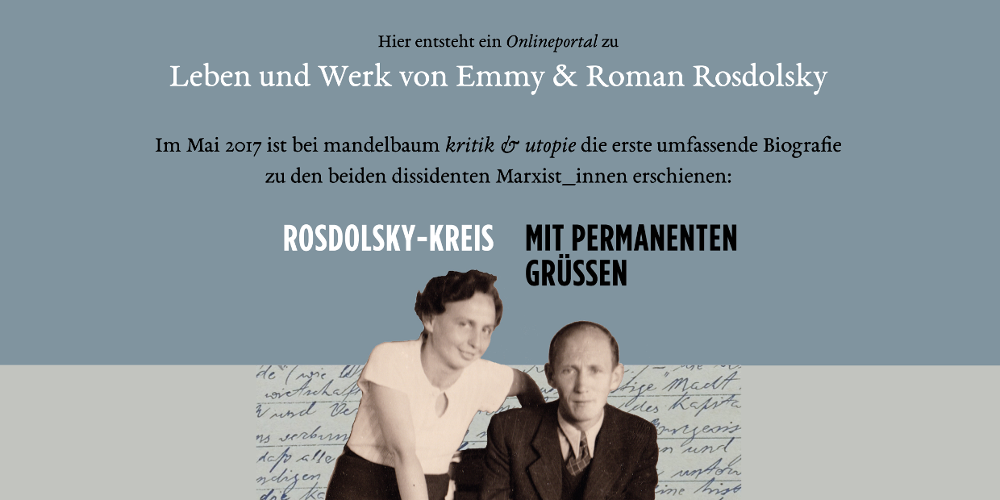
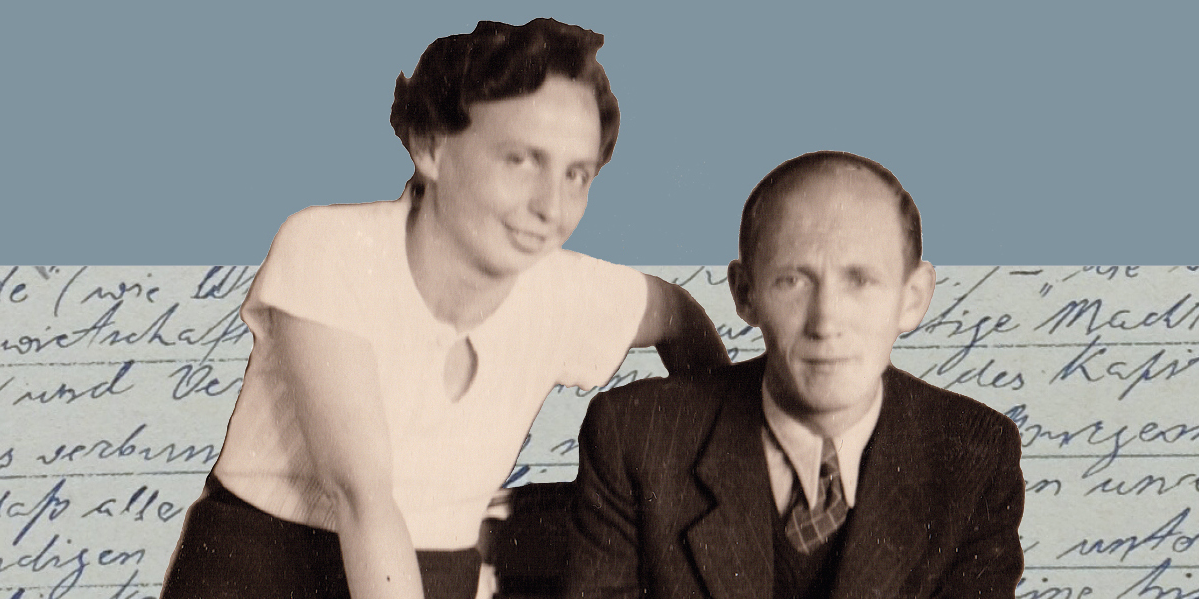
Create presentation using reveal.js

diff --git a/_layouts/slide.html b/_layouts/slide.html
@@ -1,0 +1,92 @@
+<!doctype html>
+<html>
+  <head>
+    <meta charset="utf-8">
+
+    <title>
+      {% if page.title %}
+        {{ page.title }} | {{ site.title }}
+      {% else %}
+        {{ site.title }}
+      {% endif %}
+    </title>
+
+    <meta name="author" content="{{ site.author }}" />
+
+    <!-- Description -->
+    {% if page.description %}
+      <meta name="description" content="{{ page.description }}" />
+    {% else %}
+      <meta name="description" content="{{ site.description }}">
+    {% endif %}
+
+    <meta name="apple-mobile-web-app-capable" content="yes" />
+    <meta name="apple-mobile-web-app-status-bar-style" content="black-translucent" />
+
+    <meta name="viewport" content="width=device-width, initial-scale=1.0, maximum-scale=1.0, user-scalable=no, minimal-ui">
+
+    <link rel="stylesheet" href="{{ "/reveal.js/css/reveal.css" | prepend: site.baseurl }}"/>
+    {%if page.theme %}
+      <link rel="stylesheet" href="{{ "/reveal.js/css/theme/" | prepend: site.baseurl | append: page.theme | append: '.css' }}" id="theme"/>
+    {% else %}
+      <link rel="stylesheet" href="{{ "/reveal.js/css/theme/black.css" | prepend: site.baseurl }}" id="theme"/>
+    {% endif %}
+
+    <!-- Code syntax highlighting -->
+    <link rel="stylesheet" href="{{ "/reveal.js/lib/css/zenburn.css" | prepend: site.baseurl }}"/>
+
+    <!-- Printing and PDF exports -->
+    <script>
+      var link = document.createElement( 'link' );
+      link.rel = 'stylesheet';
+      link.type = 'text/css';
+      link.href = window.location.search.match( /print-pdf/gi ) ? '{{ "/reveal.js/css/print/pdf.css" | prepend: site.baseurl }}' : '{{ "/reveal.js/css/print/paper.css" | prepend: site.baseurl }}';
+      document.getElementsByTagName( 'head' )[0].appendChild( link );
+    </script>
+
+    <link rel="apple-touch-icon" href="{{ "/apple-touch-icon.png" | prepend: site.baseurl }}" />
+
+    <link rel="canonical" href="{{ page.url | replace:'index.html','' | prepend: site.baseurl | prepend: site.url }}">
+
+    <!--[if lt IE 9]>
+    <script src="lib/js/html5shiv.js"></script>
+    <![endif]-->
+  </head>
+
+  <body>
+  
+    <div class="reveal">
+      <div class="slides">
+        {{ content }}
+      </div>
+    </div>
+
+    <script src="{{ "/reveal.js/lib/js/head.min.js" | prepend: site.baseurl }}"></script>
+    <script src="{{ "/reveal.js/js/reveal.js" | prepend: site.baseurl }}"></script>
+    <script>
+      // Full list of configuration options available at:
+      // https://github.com/hakimel/reveal.js#configuration
+      Reveal.initialize({
+        controls: true,
+        progress: true,
+        history: true,
+        center: true,
+        {%if page.transition %}
+          transition: '{{page.transition}}',
+        {% else %}
+          transition: 'slide', // none/fade/slide/convex/concave/zoom
+        {% endif %}
+        // Optional reveal.js plugins
+        dependencies: [
+          { src: '{{ "/reveal.js/lib/js/classList.js" | prepend: site.baseurl }}', condition: function() { return !document.body.classList; } },
+          { src: '{{ "/reveal.js/plugin/markdown/marked.js" | prepend: site.baseurl }}', condition: function() { return !!document.querySelector( '[data-markdown]' ); } },
+          { src: '{{ "/reveal.js/plugin/markdown/markdown.js" | prepend: site.baseurl }}', condition: function() { return !!document.querySelector( '[data-markdown]' ); } },
+          { src: '{{ "/reveal.js/plugin/highlight/highlight.js" | prepend: site.baseurl }}', async: true, condition: function() { return !!document.querySelector( 'pre code' ); }, callback: function() { hljs.initHighlightingOnLoad(); } },
+          { src: '{{ "/reveal.js/plugin/zoom-js/zoom.js" | prepend: site.baseurl }}', async: true },
+          { src: '{{ "/reveal.js/plugin/notes/notes.js" | prepend: site.baseurl }}', async: true }
+        ]
+      });
+    </script>
+    
+  </body>
+</html>

diff --git a/index.md b/index.md
@@ -1,6 +1,95 @@
 ---
-# You don't need to edit this file, it's empty on purpose.
-# Edit theme's home layout instead if you wanna make some changes
-# See: https://jekyllrb.com/docs/themes/#overriding-theme-defaults
-layout: home
+layout: slide
+theme: league
+transition: slide
+lang: en
 ---
+
+<section data-markdown>
+Dedicated to
+## Emmy Rosdolsky (1911-2001)
+## Roman Rosdolsky (1898-1967)
+
+The following pages give you an idea of what to expect.
+
+<small>[< deutschsprachige version > ](/de/)</small>
+</section>
+
+
+<section data-markdown>
+Viennese Unionist Emmy & Lvov Historian Roman have been active in the socialist movement since their youth.
+![Cover](../images/cover.png)
+</section>
+
+
+<section data-markdown>
+In 2015 our research group inspected the Roman Rosdolsky Papers at the IISH in Amsterdam.
+![page #01](../images/slide_01.png)
+</section>
+
+
+<section data-markdown>
+Reading room with pleasant view! Digitizing letters and unpublished articles.
+![page #02](../images/slide_02.png)
+</section>
+
+
+<section data-markdown>
+In 2008 we started to establish our reading & study circle in Vienna.
+![page #03](../images/slide_03.png)
+</section>
+
+
+<section data-markdown>
+In May 2017 we published the first extensive biography: [**Mit permanenten Grüßen**](http://www.mandelbaum.at/buch.php?id=751)
+![page #04](../images/slide_04.png)
+</section>
+
+
+<section data-markdown>
+...with exciting excerpts from the extensive debates with important Marxists like...
+![page #05](../images/slide_05.png)
+</section>
+
+
+<section data-markdown>
+...the politicians Julius Braunthal, Christian Broda and Benedikt Kautsky,...
+![page #06](../images/slide_06.png)
+</section>
+
+
+<section data-markdown>
+...the economists Raya Dunayevskaya, Paul Mattick, Ernest Mandel and Natalia Moskovskaya,...
+![page #07](../images/slide_07.png)
+</section>
+
+
+<section data-markdown>
+...the historian Isaac Deutscher, the psychoanalyst Ernst Federn,...
+![page #08](../images/slide_08.png)
+</section>
+
+
+<section data-markdown>
+...and the philosophers Karl Korsch and Otto Morf. A selection of the correspondence will be published here.
+![page #09](../images/slide_09.png)
+</section>
+
+
+<section data-markdown>
+Moreover audio interviews have been transcribed and digitized. Stay tuned!
+![page #10](../images/slide_10.png)
+</section>
+
+
+<section data-markdown>
+## Thanks for watching! Any contributions welcome!
+With permanent greetings
+
+Steffi and Pablo
+
+Vienna, 2017/July/19
+
+(on the occasion of Roman Rosdolsky's 119th birthday)
+### Feel free to get in touch with us via mail: [contact@rosdolsky.org](mailto:contact@rosdolsky.org)
+</section>

diff --git a/index_de.md b/index_de.md
@@ -1,0 +1,97 @@
+---
+layout: slide
+theme: league
+transition: slide
+lang: de
+permalink: /de/
+---
+
+<section data-markdown>
+Gewidmet
+## Emmy Rosdolsky (1911-2001)
+## Roman Rosdolsky (1898-1967)
+
+Die folgenden Seiten sind ein kleiner Vorgeschmack auf das, was kommt.
+
+<small>[ < english version > ](/)</small>
+</section>
+
+
+<section data-markdown>
+Die Wiener Gewerkschafterin Emmy und der Lemberger Historiker Roman waren seit ihrer Jugend in der sozialistischen Bewegung aktiv.
+![Cover](../images/cover.png)
+</section>
+
+
+<section data-markdown>
+2015 sichtete unsere Forschungsgruppe den Nachlass von Roman Rosdolsky am IISG in Amsterdam.
+![page #01](../images/slide_01.png)
+</section>
+
+
+<section data-markdown>
+Lesesaal mit schönem Ausblick! Briefe und unveröffentlichte Artikel werden digitalisiert.
+![page #02](../images/slide_02.png)
+</section>
+
+
+<section data-markdown>
+2008 begannen wir in Wien mit dem Aufbau unseres Lese- und Studienkreises.
+![page #03](../images/slide_03.png)
+</section>
+
+
+<section data-markdown>
+Im Mai 2017 erschien schließlich die erste umfangreiche Biografie: [**Mit permanenten Grüßen**](http://www.mandelbaum.at/buch.php?id=751)
+![page #04](../images/slide_04.png)
+</section>
+
+
+<section data-markdown>
+... mit spannenden Auszügen aus den umfangreichen Debatten mit bedeutenden Marxist_innen wie ...
+![page #05](../images/slide_05.png)
+</section>
+
+
+<section data-markdown>
+... den Politikern Julius Braunthal, Christian Broda und Benedikt Kautsky, ...
+![page #06](../images/slide_06.png)
+</section>
+
+
+<section data-markdown>
+... den Ökonom_innen Raya Dunayevskaya, Paul Mattick, Ernest Mandel und Natalie Moskovska, ...
+![page #07](../images/slide_07.png)
+</section>
+
+
+<section data-markdown>
+... dem Historiker Isaac Deutscher, dem Psychoanalytiker Ernst Federn ...
+![page #08](../images/slide_08.png)
+</section>
+
+
+<section data-markdown>
+... sowie den Philosophen Karl Korsch und Otto Morf. Eine Auswahl der Briefe wird hier veröffentlicht.
+![page #09](../images/slide_09.png)
+</section>
+
+
+<section data-markdown>
+
+Zudem wurden Audiointerviews transkribiert und digitalisiert. Bleib dran!
+![page #10](../images/slide_10.png)
+</section>
+
+
+<section data-markdown>
+## Danke für die Aufmerksamkeit! Jede Unterstützung ist willkommen!
+Mit permanenten Grüßen
+
+Steffi und Pablo
+
+Wien, am 19. Juli. 2017
+
+(anlässlich Roman Rosdolskys 119. Geburtstag)
+### Wir freuen uns über Zusendungen an: [contact@rosdolsky.org](mailto:contact@rosdolsky.org)
+</section>
